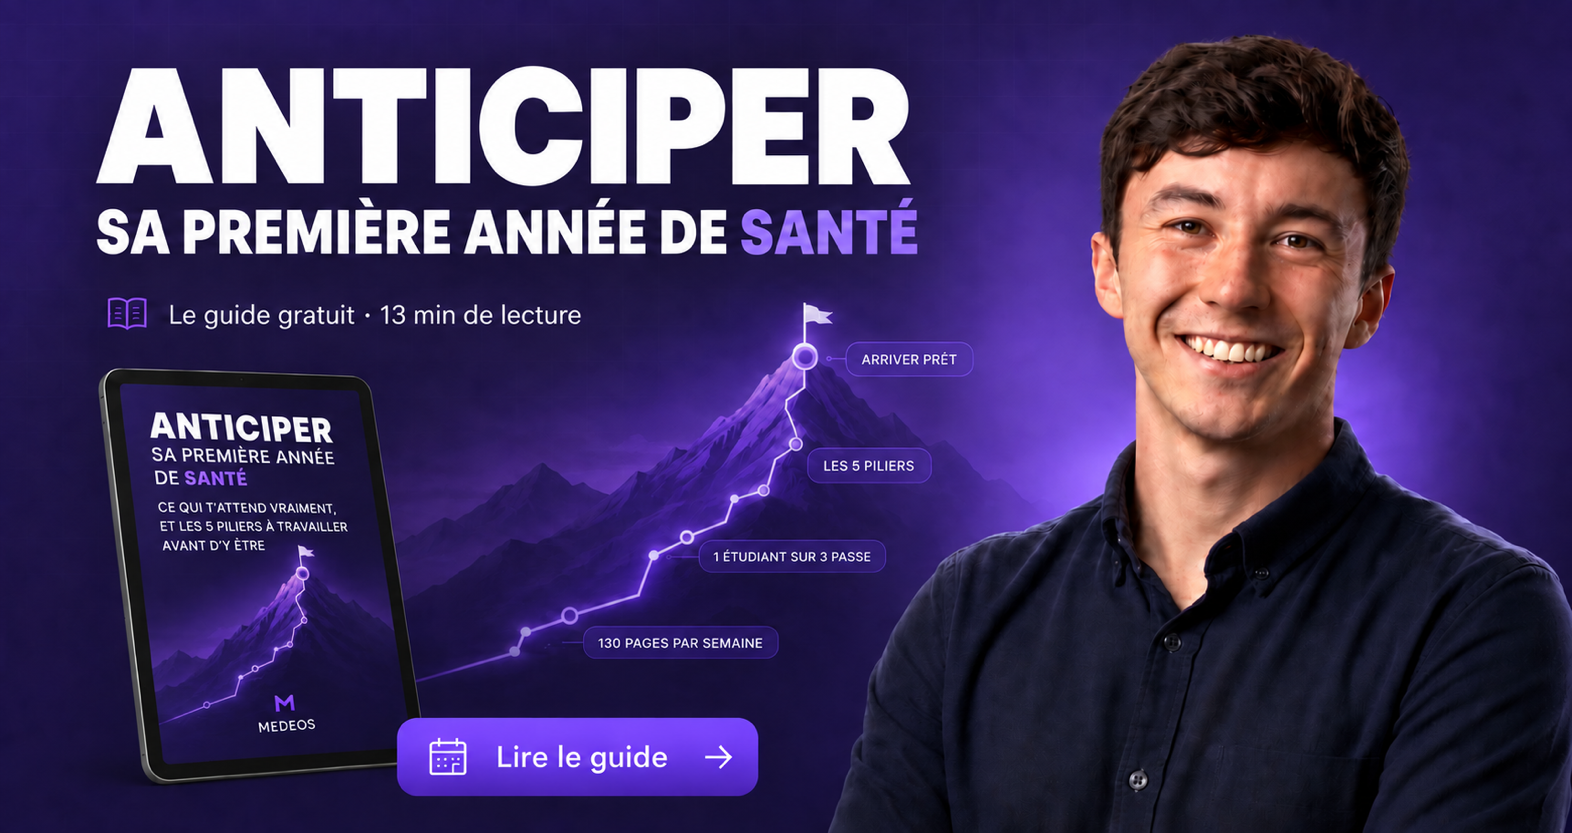
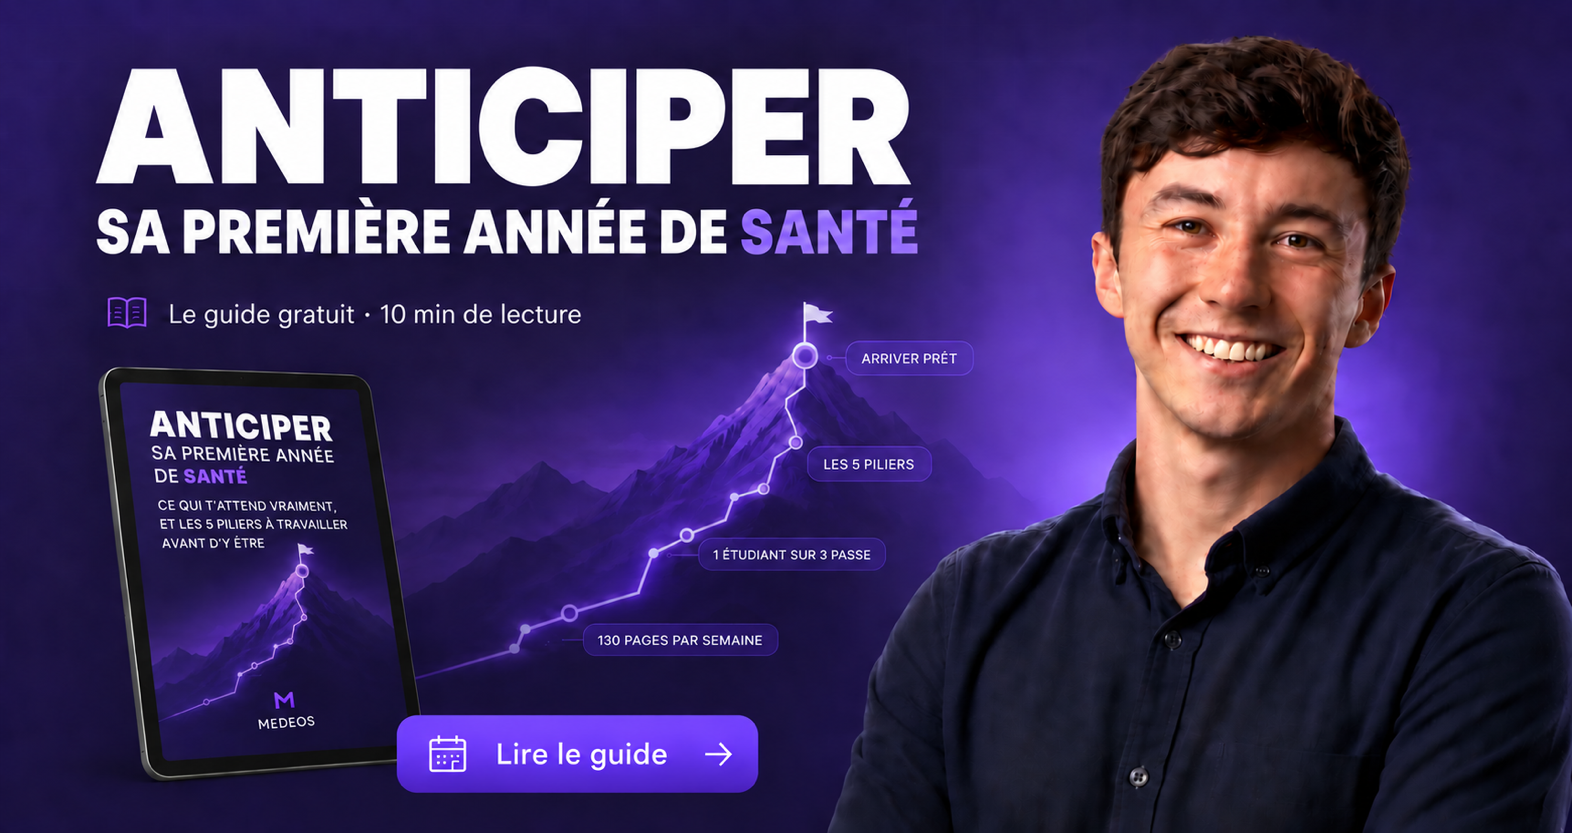
Les panoramas ne vendent plus qu'un seul produit : Medi Pro (Lucas, 19/09)
Lucas, en ouvrant le panorama de biologie dans l'app : « je vois que dans les CTA
progressifs on vend encore Medi Pro ET Stages Vacances, une vieille offre.
Maintenant on n'a plus qu'un seul produit, Medi Pro, qui regroupe tous les stages
pendant les vacances de Terminale + la pré-rentrée. »

Les quatre panoramas de la Bibliothèque servaient encore l'ancienne offre :
    « Medi Pro te les fait voir juste avant la rentrée ; les Stages Vacances,
      dès la Toussaint. »
    [ Medi Pro — stage d'été → ]   [ Stages Vacances → ]

C'est-à-dire deux produits présentés comme concurrents, dont l'un n'existe plus
comme offre distincte. Le site avait déjà été corrigé ; ces copies ne l'avaient
pas été — encore la duplication.

Les textes sont repris à l'identique de la version du site (source de vérité,
adaptée matière par matière : l'atome pour la chimie, le cycle cellulaire pour la
biologie, Donnan pour la physique, le squelette pour l'anatomie). Les deux boutons
deviennent les deux vraies portes :
    [ Ouvrir mon Parcours, gratuit → ]   [ Medi Pro — nos stages → ]
Le Parcours pointe sur #home, puisqu'on est déjà dans l'app.

Syntaxe des quatre fichiers revérifiée (node --check sur chaque bloc de script).

La couverture du guide passe aussi à la version « 10 min ».

diff --git a/biblio/panorama-chimie.html b/biblio/panorama-chimie.html
@@ -1967,21 +1967,28 @@ Final output: should look like a publication-quality figure from a peer-reviewed
     }
     var hints = ['On continue ?', 'On poursuit le tour.', 'Prochain arrêt.', 'On continue.', 'Dernière partie.'];
 
-    // Phrases de conversion sous « Continuer ». Les DEUX offres sont proposées à
-    // chaque fois (retour Lucas 04/08) : les Stages Vacances valent 388 € contre
-    // 147 € pour Medi Pro, ils ne peuvent pas apparaître une fois sur trois.
+    // Phrases de conversion sous « Continuer ».
+    // ⛔ 19/09/2026 — le commentaire d'origine disait « les Stages Vacances valent
+    // 388 € contre 147 € pour Medi Pro » : FAUX deux fois. 388 € EST le prix de
+    // Medi Pro, et la grille à 147 € est morte. Surtout, il n'y a plus deux offres :
+    // Medi Pro REGROUPE les stages des vacances de Terminale et la pré-rentrée
+    // (Lucas, 19/09). Les deux portes sont donc le Parcours (gratuit) et Medi Pro.
     var RAPPELS_STAGES = {
-      3: 'L\'atome, le tableau périodique, l\'eau : tu viens de parcourir les toutes premières notions du programme de chimie. Ils tombent dès les premières semaines de cours. <b>Medi&nbsp;Pro</b> te les fait travailler juste avant la rentrée&nbsp;; les <b>Stages Vacances</b> les étalent sur l\'année.',
-      5: 'Les équilibres et les réactions, c\'est là que la chimie de première année devient calculatoire — et c\'est là que beaucoup décrochent. Les avoir déjà manipulés une fois avant septembre fait la différence&nbsp;: avec <b>Medi&nbsp;Pro</b>, ou avec les <b>Stages Vacances</b> si tu es en Terminale.'
+      3: 'L\'atome, le tableau périodique, l\'eau : tu viens de parcourir les toutes premières notions du programme de chimie. Ils tombent dès les premières semaines de cours. Le <b>Parcours</b> de l\'app te les fait travailler gratuitement, deux fiches par jour&nbsp;; <b>Medi&nbsp;Pro</b>, nos stages, les approfondit à chaque vacances.',
+      5: 'Les équilibres et les réactions, c\'est là que la chimie de première année devient calculatoire — et c\'est là que beaucoup décrochent. Les avoir déjà manipulés une fois avant septembre fait la différence&nbsp;: dans le <b>Parcours</b> de l\'app, puis avec <b>Medi&nbsp;Pro</b> si tu veux un cadre et un tuteur.'
     };
     function rappelStages(n){
       var t = RAPPELS_STAGES[n];
       if(!t) return '';
-      // Les DEUX offres à chaque fois : le lecteur se reconnaît lui-même.
+      /* 19/09 (Lucas) : « on vend encore Medi Pro ET Stages Vacances, une vieille
+         offre ; maintenant on n'a plus qu'un seul produit, Medi Pro, qui regroupe
+         tous les stages des vacances de Terminale + la pré-rentrée ». Les deux
+         boutons séparés sont donc remplacés par : le Parcours (gratuit, on y est
+         déjà) et Medi Pro. */
       return '<div class="continue-cta"><div class="cta-mot">' + t + '</div>' +
              '<div class="cta-duo">' +
-             '<a href="https://medeos-sante.fr/packs/medi-pro" target="_top" data-cta="medipro">Medi&nbsp;Pro — stage d\'été →</a>' +
-             '<a href="https://medeos-sante.fr/packs/stages-vacances" target="_top" class="sv" data-cta="stages">Stages Vacances →</a>' +
+             '<a href="#home" target="_top" class="pr" data-cta="parcours">Ouvrir mon Parcours, gratuit →</a>' +
+             '<a href="https://medeos-sante.fr/packs/medi-pro-v2/2027" target="_top" data-cta="medipro">Medi&nbsp;Pro — nos stages →</a>' +
              '</div></div>';
     }
 

diff --git a/biblio/panorama-physique.html b/biblio/panorama-physique.html
@@ -1828,21 +1828,28 @@ Final output: should look like a publication-quality figure from a peer-reviewed
     }
     var hints = ['On continue ?', 'On poursuit le tour.', 'Prochain arrêt.', 'On continue.', 'Dernière partie.'];
 
-    // Phrases de conversion sous « Continuer ». Les DEUX offres sont proposées à
-    // chaque fois (retour Lucas 04/08) : les Stages Vacances valent 388 € contre
-    // 147 € pour Medi Pro, ils ne peuvent pas apparaître une fois sur trois.
+    // Phrases de conversion sous « Continuer ».
+    // ⛔ 19/09/2026 — le commentaire d'origine disait « les Stages Vacances valent
+    // 388 € contre 147 € pour Medi Pro » : FAUX deux fois. 388 € EST le prix de
+    // Medi Pro, et la grille à 147 € est morte. Surtout, il n'y a plus deux offres :
+    // Medi Pro REGROUPE les stages des vacances de Terminale et la pré-rentrée
+    // (Lucas, 19/09). Les deux portes sont donc le Parcours (gratuit) et Medi Pro.
     var RAPPELS_STAGES = {
-      3: 'Donnan, le pH sanguin : deux chapitres, et déjà beaucoup de calculs. La physique de première année est dense et très calculatoire, du même acabit. <b>Medi&nbsp;Pro</b> te les fait découvrir juste avant la rentrée, au calme&nbsp;; les <b>Stages Vacances</b> te laissent l\'année pour les digérer.',
-      5: 'Effet Doppler, loi de Fick, équilibres ioniques : ces chapitres surprennent presque tout le monde en septembre, parce que personne n\'arrive préparé dessus. C\'est la matière où l\'avance se voit le plus vite — que tu la prennes avec <b>Medi&nbsp;Pro</b> ou avec les <b>Stages Vacances</b>.'
+      3: 'Donnan, le pH sanguin : deux chapitres, et déjà beaucoup de calculs. La physique de première année est dense et très calculatoire, du même acabit. Le <b>Parcours</b> de l\'app te les fait découvrir gratuitement, au calme, deux fiches par jour&nbsp;; <b>Medi&nbsp;Pro</b> te laisse l\'année pour les digérer, stage après stage.',
+      5: 'Effet Doppler, loi de Fick, équilibres ioniques : ces chapitres surprennent presque tout le monde en septembre, parce que personne n\'arrive préparé dessus. C\'est la matière où l\'avance se voit le plus vite — que tu la prennes dans le <b>Parcours</b>, gratuitement, ou avec <b>Medi&nbsp;Pro</b>.'
     };
     function rappelStages(n){
       var t = RAPPELS_STAGES[n];
       if(!t) return '';
-      // Les DEUX offres à chaque fois : le lecteur se reconnaît lui-même.
+      /* 19/09 (Lucas) : « on vend encore Medi Pro ET Stages Vacances, une vieille
+         offre ; maintenant on n'a plus qu'un seul produit, Medi Pro, qui regroupe
+         tous les stages des vacances de Terminale + la pré-rentrée ». Les deux
+         boutons séparés sont donc remplacés par : le Parcours (gratuit, on y est
+         déjà) et Medi Pro. */
       return '<div class="continue-cta"><div class="cta-mot">' + t + '</div>' +
              '<div class="cta-duo">' +
-             '<a href="https://medeos-sante.fr/packs/medi-pro" target="_top" data-cta="medipro">Medi&nbsp;Pro — stage d\'été →</a>' +
-             '<a href="https://medeos-sante.fr/packs/stages-vacances" target="_top" class="sv" data-cta="stages">Stages Vacances →</a>' +
+             '<a href="#home" target="_top" class="pr" data-cta="parcours">Ouvrir mon Parcours, gratuit →</a>' +
+             '<a href="https://medeos-sante.fr/packs/medi-pro-v2/2027" target="_top" data-cta="medipro">Medi&nbsp;Pro — nos stages →</a>' +
              '</div></div>';
     }
 

diff --git a/biblio/panorama-biologie.html b/biblio/panorama-biologie.html
@@ -1896,21 +1896,28 @@ Final output: should look like a publication-quality figure from a peer-reviewed
     }
     var hints = ['On continue ?', 'On poursuit le tour.', 'Prochain arrêt.', 'On continue.', 'Dernière partie.'];
 
-    // Phrases de conversion sous « Continuer ». Les DEUX offres sont proposées à
-    // chaque fois (retour Lucas 04/08) : les Stages Vacances valent 388 € contre
-    // 147 € pour Medi Pro, ils ne peuvent pas apparaître une fois sur trois.
+    // Phrases de conversion sous « Continuer ».
+    // ⛔ 19/09/2026 — le commentaire d'origine disait « les Stages Vacances valent
+    // 388 € contre 147 € pour Medi Pro » : FAUX deux fois. 388 € EST le prix de
+    // Medi Pro, et la grille à 147 € est morte. Surtout, il n'y a plus deux offres :
+    // Medi Pro REGROUPE les stages des vacances de Terminale et la pré-rentrée
+    // (Lucas, 19/09). Les deux portes sont donc le Parcours (gratuit) et Medi Pro.
     var RAPPELS_STAGES = {
-      3: 'La cellule, la membrane, l\'ADN : trois chapitres du programme, effleurés en quelques minutes. En première année, ils s\'enchaînent vite, avec un niveau de détail bien supérieur. <b>Medi&nbsp;Pro</b> te les fait voir juste avant la rentrée&nbsp;; les <b>Stages Vacances</b>, dès la Toussaint.',
-      5: 'Le cycle cellulaire est l\'un des chapitres les plus tombés de la première année, et l\'un des plus piégeux en QCM. Le voir une première fois sans pression change tout&nbsp;: c\'est ce que permettent <b>Medi&nbsp;Pro</b> l\'été prochain, ou les <b>Stages Vacances</b> dès cette année.'
+      3: 'La cellule, la membrane, l\'ADN : trois chapitres du programme, effleurés en quelques minutes. En première année, ils s\'enchaînent vite, avec un niveau de détail bien supérieur. Le <b>Parcours</b> de l\'app te les fait travailler gratuitement, deux fiches par jour&nbsp;; <b>Medi&nbsp;Pro</b>, nos stages, dès la Toussaint.',
+      5: 'Le cycle cellulaire est l\'un des chapitres les plus tombés de la première année, et l\'un des plus piégeux en QCM. Le voir une première fois sans pression change tout&nbsp;: c\'est ce que permettent le <b>Parcours</b> de l\'app, gratuitement, et <b>Medi&nbsp;Pro</b> pendant les vacances.'
     };
     function rappelStages(n){
       var t = RAPPELS_STAGES[n];
       if(!t) return '';
-      // Les DEUX offres à chaque fois : le lecteur se reconnaît lui-même.
+      /* 19/09 (Lucas) : « on vend encore Medi Pro ET Stages Vacances, une vieille
+         offre ; maintenant on n'a plus qu'un seul produit, Medi Pro, qui regroupe
+         tous les stages des vacances de Terminale + la pré-rentrée ». Les deux
+         boutons séparés sont donc remplacés par : le Parcours (gratuit, on y est
+         déjà) et Medi Pro. */
       return '<div class="continue-cta"><div class="cta-mot">' + t + '</div>' +
              '<div class="cta-duo">' +
-             '<a href="https://medeos-sante.fr/packs/medi-pro" target="_top" data-cta="medipro">Medi&nbsp;Pro — stage d\'été →</a>' +
-             '<a href="https://medeos-sante.fr/packs/stages-vacances" target="_top" class="sv" data-cta="stages">Stages Vacances →</a>' +
+             '<a href="#home" target="_top" class="pr" data-cta="parcours">Ouvrir mon Parcours, gratuit →</a>' +
+             '<a href="https://medeos-sante.fr/packs/medi-pro-v2/2027" target="_top" data-cta="medipro">Medi&nbsp;Pro — nos stages →</a>' +
              '</div></div>';
     }
 

diff --git a/biblio/panorama-anatomie.html b/biblio/panorama-anatomie.html
@@ -2161,21 +2161,28 @@
     ];
 
 
-    // Phrases de conversion sous « Continuer ». Les DEUX offres sont proposées à
-    // chaque fois (retour Lucas 04/08) : les Stages Vacances valent 388 € contre
-    // 147 € pour Medi Pro, ils ne peuvent pas apparaître une fois sur trois.
+    // Phrases de conversion sous « Continuer ».
+    // ⛔ 19/09/2026 — le commentaire d'origine disait « les Stages Vacances valent
+    // 388 € contre 147 € pour Medi Pro » : FAUX deux fois. 388 € EST le prix de
+    // Medi Pro, et la grille à 147 € est morte. Surtout, il n'y a plus deux offres :
+    // Medi Pro REGROUPE les stages des vacances de Terminale et la pré-rentrée
+    // (Lucas, 19/09). Les deux portes sont donc le Parcours (gratuit) et Medi Pro.
     var RAPPELS_STAGES = {
-      3: 'Le langage anatomique, le squelette, le cœur : trois sujets, et en première année chacun d\'eux occupe un chapitre entier, avec ses schémas à restituer. <b>Medi&nbsp;Pro</b> te les fait travailler juste avant la rentrée&nbsp;; les <b>Stages Vacances</b> les répartissent sur quatre sessions de douze jours pendant l\'année.',
-      5: 'Cœur, poumons, cerveau : tu viens de survoler en quelques minutes ce qui occupe plusieurs semaines de cours. La différence entre survoler et savoir, c\'est le nombre de fois où tu repasses dessus — c\'est tout l\'objet de <b>Medi&nbsp;Pro</b> et des <b>Stages Vacances</b>.'
+      3: 'Le langage anatomique, le squelette, le cœur : trois sujets, et en première année chacun d\'eux occupe un chapitre entier, avec ses schémas à restituer. Dans le <b>Parcours</b> de l\'app, tu les travailles gratuitement, deux fiches par jour, dans l\'ordre du programme&nbsp;; <b>Medi&nbsp;Pro</b>, ce sont nos stages pour aller plus loin, à chaque vacances puis juste avant la rentrée.',
+      5: 'Cœur, poumons, cerveau : tu viens de survoler en quelques minutes ce qui occupe plusieurs semaines de cours. La différence entre survoler et savoir, c\'est le nombre de fois où tu repasses dessus — c\'est exactement ce que fait le <b>Parcours</b>, un peu chaque jour, et ce que <b>Medi&nbsp;Pro</b> accélère pendant les vacances.'
     };
     function rappelStages(n){
       var t = RAPPELS_STAGES[n];
       if(!t) return '';
-      // Les DEUX offres à chaque fois : le lecteur se reconnaît lui-même.
+      /* 19/09 (Lucas) : « on vend encore Medi Pro ET Stages Vacances, une vieille
+         offre ; maintenant on n'a plus qu'un seul produit, Medi Pro, qui regroupe
+         tous les stages des vacances de Terminale + la pré-rentrée ». Les deux
+         boutons séparés sont donc remplacés par : le Parcours (gratuit, on y est
+         déjà) et Medi Pro. */
       return '<div class="continue-cta"><div class="cta-mot">' + t + '</div>' +
              '<div class="cta-duo">' +
-             '<a href="https://medeos-sante.fr/packs/medi-pro" target="_top" data-cta="medipro">Medi&nbsp;Pro — stage d\'été →</a>' +
-             '<a href="https://medeos-sante.fr/packs/stages-vacances" target="_top" class="sv" data-cta="stages">Stages Vacances →</a>' +
+             '<a href="#home" target="_top" class="pr" data-cta="parcours">Ouvrir mon Parcours, gratuit →</a>' +
+             '<a href="https://medeos-sante.fr/packs/medi-pro-v2/2027" target="_top" data-cta="medipro">Medi&nbsp;Pro — nos stages →</a>' +
              '</div></div>';
     }
 
